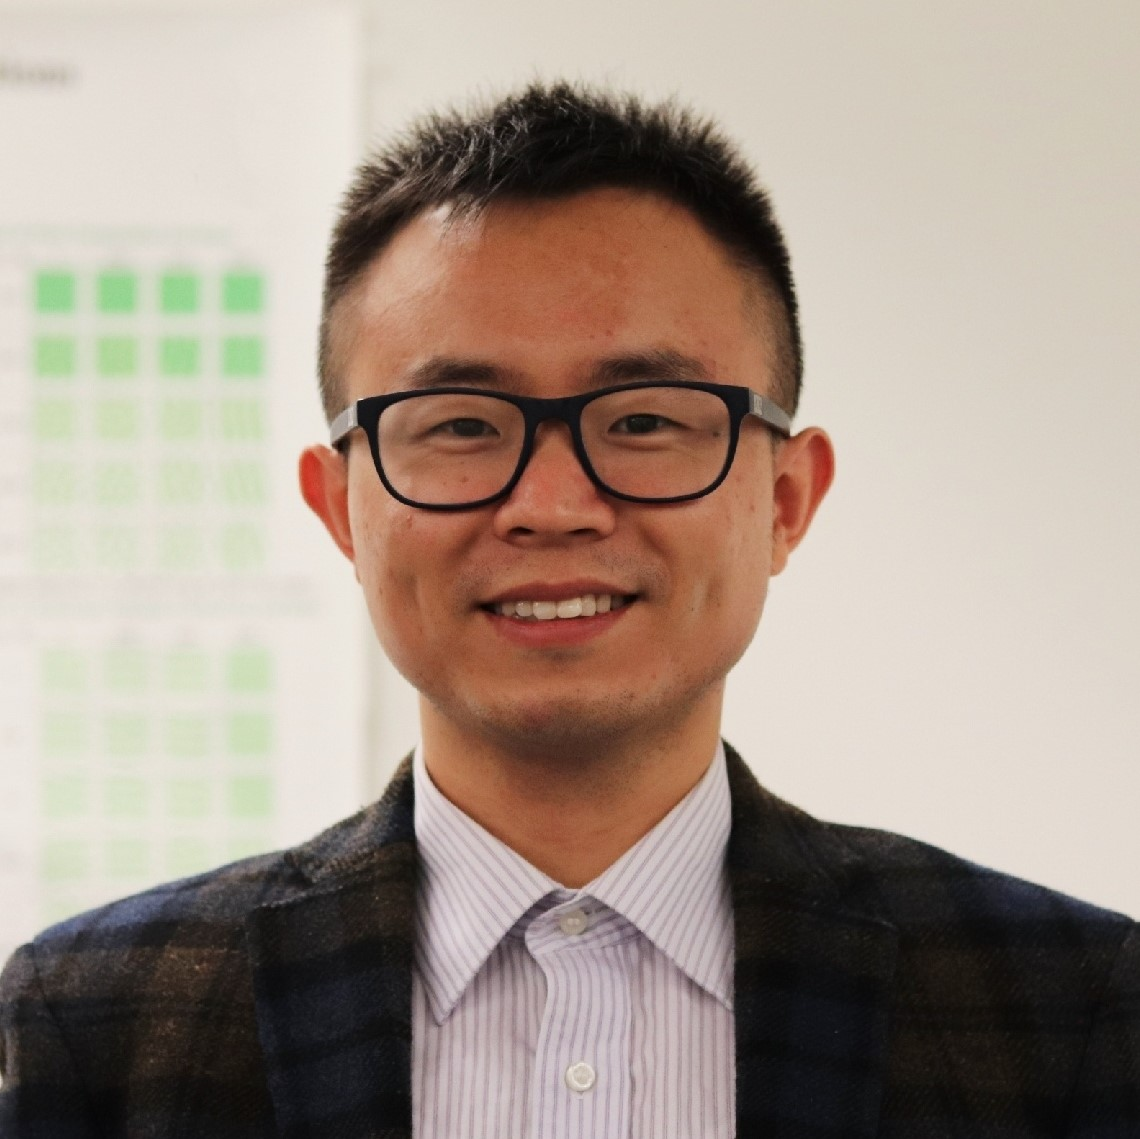
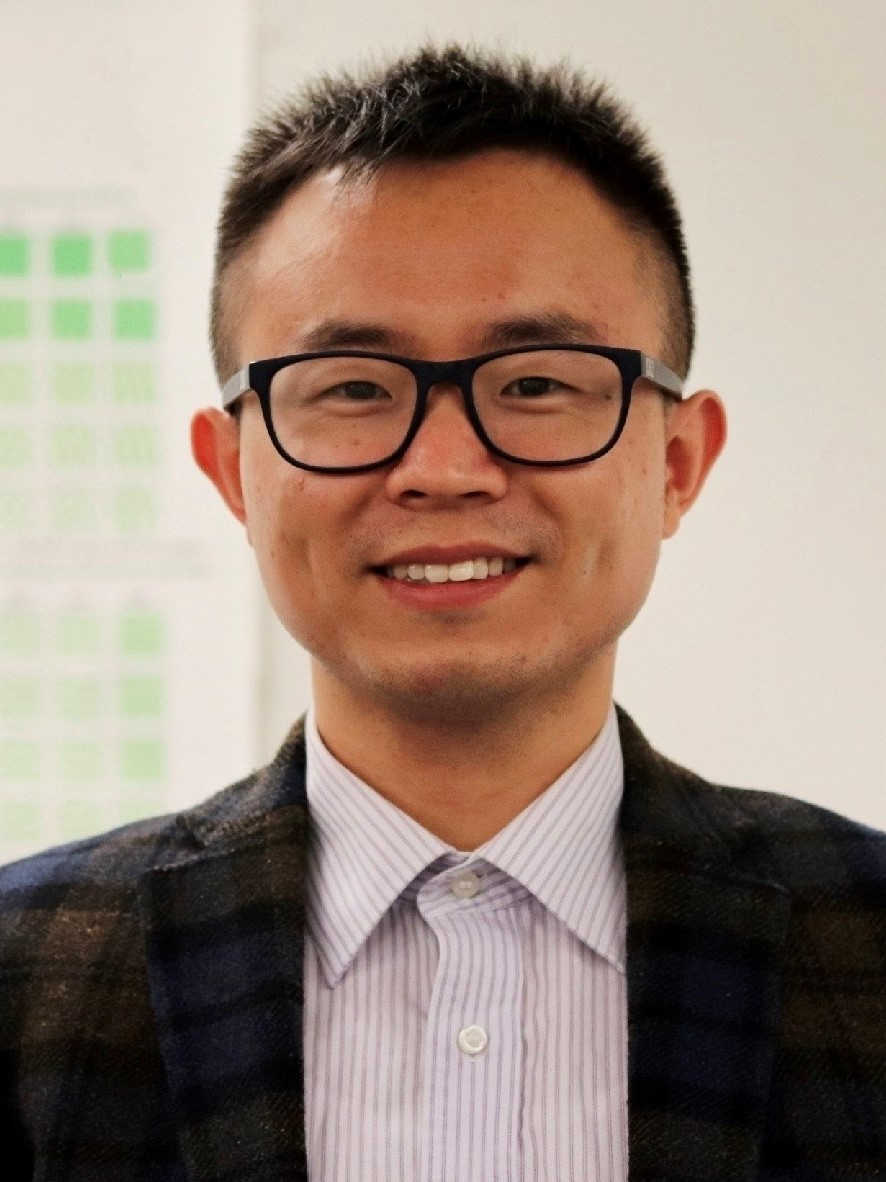
Updated web

diff --git a/index.html b/index.html
@@ -8,184 +8,35 @@
 <title>Le Liang</title>
 </head>
 <body>
-<div id="layout-content">
+<table summary="Table for page layout." id="tlayout">
+<tr valign="top">
+<td id="layout-menu">
+<div class="menu-item"><a href="index.html" class="current">Home</a></div>
+<div class="menu-item"><a href="publication.html">Publication</a></div>
+</td>
+<td id="layout-content">
 <div id="toptitle">
 <h1>Le Liang</h1>
 </div>
 <table class="imgtable"><tr><td>
-<img src="leliang.jpg" alt="leliang" width="216px" height="216px" />&nbsp;</td>
-<td align="left"><p>Le Liang is a Research Scientist with Intel Labs, Hillsboro, OR. His general research interests include wireless communications, signal processing, and machine learning.</p>
-<p>He received the B.E. degree in information engineering from Southeast University, Nanjing, China, in 2012, the M.A.Sc degree in electrical engineering from the University of Victoria, BC, Canada, in 2015, and the Ph.D. degree in electrical and computer engineering from the Georgia Institute of Technology, Atlanta, GA, in 2018.</p>
-<p>E-mail: lliang AT gatech DOT edu <br />
+<img src="leliang.jpg" alt="Le Liang" width="135px" height="180px" />&nbsp;</td>
+<td align="left"><p>Le Liang, Ph.D. <br />
+Research Scientist <br />
+<a href="https://www.intel.com/content/www/us/en/research/overview.html">Intel Labs</a>, Hillsboro, USA. <br /><br />
+E-mail: lliang AT gatech DOT edu <br />
 [<a href="https://scholar.google.ca/citations?user=Iv2E-SsAAAAJ&amp;hl=en">Google Scholar</a>] [<a href="https://github.com/le-liang">GitHub</a>] <br /></p>
 </td></tr></table>
-<h2>2020</h2>
-<ul>
-<li><p><a href="https://ieeexplore.ieee.org/document/9026965">Learn to compress CSI and allocate resources in vehicular networks</a> <a href="https://github.com/CooperLWang/Learn-CompressCSI-RA-V2X-Code"><b>[Source Code]</b></a>  <br />
-L. Wang, H. Ye, L. Liang, and G. Y. Li, <i>IEEE Transactions on Communications</i>, vol. 68, no. 6, pp. 3640-3653, Jun. 2020</p>
-</li>
-</ul>
-<ul>
-<li><p><a href="https://ieeexplore.ieee.org/document/8985539">Deep learning based end-to-end wireless communication systems with conditional GAN as unknown channel</a> <a href="https://github.com/haoyye/End2End_GAN"><b>[Source Code]</b></a>  <br />
-H. Ye, L. Liang, G. Y. Li, and B.-H. Juang, <i>IEEE Transactions on Wireless Communications</i>, vol. 19, no. 5, pp. 3133-3143, May 2020. </p>
-</li>
-</ul>
-<ul>
-<li><p><a href="https://ieeexplore.ieee.org/document/8943940">Deep-learning-based wireless resource allocation with application to vehicular networks</a> <br />
-L. Liang, H. Ye, G. Yu, and G. Y. Li, <i>Proceedings of the IEEE</i>, vol. 108, no. 2, pp. 341-356, Feb. 2020. </p>
-</li>
-</ul>
-<h2>2019</h2>
-<ul>
-<li><p><a href="https://ieeexplore.ieee.org/document/8792382">Spectrum sharing in vehicular networks based on multi-agent reinforcement learning</a> <a href="https://github.com/le-liang/MARLspectrumSharingV2X"><b>[Source Code]</b></a> <br />
-L. Liang, H. Ye, and G. Y. Li, <i>IEEE Journal on Selected Areas in Communications</i>, vol. 37, no. 10, pp. 2282-2292, Oct. 2019.</p>
-</li>
-</ul>
-<ul>
-<li><p><a href="https://ieeexplore.ieee.org/abstract/document/8676020">Resource allocation for V2X communications: A large deviation theory perspective</a> <br />
-C. Guo, L. Liang, and G. Y. Li, <i>IEEE Wireless Communications Letters</i>, vol. 8, no. 4, pp. 1108–-1111, Aug. 2019.</p>
-</li>
-</ul>
-<ul>
-<li><p><a href="https://ieeexplore.ieee.org/document/8731910/">Resource allocation for vehicular communications with low latency and high reliability</a> <br />
-C. Guo, L. Liang, and G. Y. Li, <i>IEEE Transactions on Wireless Communications</i>, vol. 18, no. 8, pp. 3887&ndash;3902, Aug. 2019.</p>
-</li>
-</ul>
-<ul>
-<li><p><a href="https://ieeexplore.ieee.org/document/8723178">Resource allocation for high-reliability low-Latency vehicular communications with packet retransmission</a> <br />
-C. Guo, L. Liang, and G. Y. Li, <i>IEEE Transactions on Vehicular Technology</i>, vol. 68, no. 7, pp. 6219&ndash;6230, Jul. 2019.</p>
-</li>
-</ul>
-<ul>
-<li><p><a href="https://ieeexplore.ieee.org/document/8638940">Resource allocation for low-latency vehicular communications: An effective capacity perspective</a> <br />
-C. Guo, L. Liang, and G. Y. Li, <i>IEEE Journal on Selected Areas in Communications</i>, vol. 37, no. 4, pp. 905–-917, Apr. 2019.</p>
-</li>
-</ul>
-<ul>
-<li><p><a href="https://ieeexplore.ieee.org/document/8472113">Toward intelligent vehicular networks: A machine learning framework</a> <br />
-L. Liang, H. Ye, and G. Y. Li, <i>IEEE Internet of Things Journal</i>, vol. 6, no. 1, pp. 124&ndash;135, Feb. 2019.</p>
-</li>
-</ul>
-<ul>
-<li><p><a href="https://ieeexplore.ieee.org/document/8354811/">Vehicular communications: A network layer perspective</a> <br />
-H. Peng, L. Liang, X. Shen, and G. Y. Li, <i>IEEE Transactions on Vehicular Technology</i>, vol. 68, no. 2, pp. 1064&ndash;1078, Feb. 2019.</p>
-</li>
-</ul>
-<p><br /></p>
-<ul>
-<li><p><a href="https://ieeexplore.ieee.org/abstract/document/8815483">Circular convolutional auto-encoder for channel coding</a> <br />
-H. Ye, L. Liang, and G. Y. Li, in <i>Proceedings of IEEE International Workshop on Signal Processing Advances in Wireless Communications (SPAWC)</i>, 2019, pp. 1&ndash;5.</p>
-</li>
-</ul>
-<ul>
-<li><p><a href="https://ieeexplore.ieee.org/abstract/document/8815439">Multi-agent reinforcement learning for spectrum sharing in vehicular networks</a> <br />
-L. Liang, H. Ye, and G. Y. Li, in <i>Proceedings of IEEE International Workshop on Signal Processing Advances in Wireless Communications (SPAWC)</i>, 2019, pp. 1&ndash;5.</p>
-</li>
-</ul>
-<h2>2018</h2>
-<ul>
-<li><p><a href="https://ieeexplore.ieee.org/document/8352650/">Framework of channel estimation for hybrid analog-and-digital processing enabled massive MIMO communications</a><br />
-L. Pan, L. Liang, W. Xu, and X. Dong, <i>IEEE Transactions on Communications</i>, vol. 66, no. 9, pp. 3902&ndash;3915, Sep. 2018.</p>
-</li>
-</ul>
-<ul>
-<li><p><a href="https://ieeexplore.ieee.org/document/8345717/">Graph-based resource sharing in vehicular communication</a> <a href="https://github.com/AlexVic/ResourceAllocationV2Xgraph"><b>[Source Code]</b></a><br />
-L. Liang, S. Xie, G. Y. Li, Z. Ding, and X. Yu, <i>IEEE Transactions on Wireless Communications</i>,  vol. 17, no. 7, pp. 4579–-4592, Jul. 2018.</p>
-</li>
-</ul>
-<ul>
-<li><p><a href="https://ieeexplore.ieee.org/document/8345672/">Machine learning for vehicular networks: Recent advances and application examples</a> <br />
-H. Ye, L. Liang, G. Y. Li, J. Kim, L. Lu, and M. Wu, <i>IEEE Vehicular Technology Magazine</i>, vol. 13, no. 2, pp. 94&ndash;101, Jun. 2018.</p>
-</li>
-</ul>
-<p><br /></p>
-<ul>
-<li><p><a href="https://ieeexplore.ieee.org/document/8647866">Resource allocation for low-latency vehicular communications with packet retransmissions</a><br />
-C. Guo, L. Liang, and G. Y. Li, in <i>Proceedings of IEEE Global Communications Conference (GLOBECOM)</i>, 2018, pp. 1–-6.</p>
-</li>
-</ul>
-<ul>
-<li><p><a href="https://ieeexplore.ieee.org/document/8422585/">Graph-based radio resource management for vehicular networks</a> <br />
-L. Liang, S. Xie, G. Y. Li, Z. Ding, and X. Yu, in <i>Proceedings of IEEE International Conference on Communications (ICC)</i>, 2018, pp. 1&ndash;6. </p>
-</li>
-</ul>
-<h2>2017</h2>
-<ul>
-<li><p><a href="http://ieeexplore.ieee.org/document/8031287/">Vehicular communications: A physical layer perspective</a> <br />
-L. Liang, H. Peng, G. Y. Li, and X. Shen, <i>IEEE Transactions on Vehicular Technology</i>, vol. 66, no. 12, pp. 10647&ndash;10659, Dec. 2017.</p>
-</li>
-</ul>
-<ul>
-<li><p><a href="http://ieeexplore.ieee.org/document/7922547/">Spectrum and power allocation for vehicular communications with delayed CSI feedback</a> <a href="https://github.com/AlexVic/ResourceAllocationDelayedCSI"><b>[Source Code]</b></a><br />
-L. Liang, J. JoonBeom, S. C. Jha, K. Sivanesan, and G. Y. Li, <i>IEEE Wireless Communications Letters</i>, vol. 6, no. 4, pp. 458-–461, Aug. 2017.</p>
-</li>
-</ul>
-<ul>
-<li><p><a href="http://ieeexplore.ieee.org/document/7913583/">Resource allocation for D2D-enabled vehicular communications</a> <a href="https://github.com/AlexVic/ResourceAllocationV2X"><b>[Source Code]</b></a><br />
-L. Liang, G. Y. Li, W. Xu, <i>IEEE Transactions on Communications</i>, vol. 65, no. 7, pp. 3186–-3197, Jul. 2017.</p>
-</li>
-</ul>
-<p><br /></p>
-<ul>
-<li><p><a href="http://ieeexplore.ieee.org/abstract/document/7952854/">Meeting different QoS requirements of vehicular networks: A D2D-based approach</a> <br />
-L. Liang, G. Y. Li, W. Xu, in <i>Proceedings of IEEE International Conference on Acoustics, Speech and Signal Processing (ICASSP)</i>, 2017, pp. 3734&ndash;3738. </p>
-</li>
-</ul>
-<h2>2014 and earlier</h2>
-<ul>
-<li><p><a href="http://ieeexplore.ieee.org/abstract/document/6928432/">Low-complexity hybrid precoding in massive multiuser MIMO systems</a> <a href="https://github.com/AlexVic/HybridPrecodingMassiveMIMO"><b>[Source Code]</b></a> <br />
-L. Liang, W. Xu, and X. Dong, <i>IEEE Wireless Communications Letters</i>, vol. 3, no. 6, pp. 653&ndash;656, Dec. 2014. </p>
-</li>
-</ul>
-<ul>
-<li><p><a href="https://link.springer.com/article/10.1007/s11277-013-1456-6">On coordinated multi-point transmission with partial channel state information via delayed feedback</a> <br />
-W. Xu and L. Liang, <i>Wireless Personal Communications</i>, vol. 75, no. 4, pp. 2103&ndash;2119, Apr. 2014. </p>
-</li>
-</ul>
-<ul>
-<li><p><a href="http://ieeexplore.ieee.org/abstract/document/6565336/">Limited feedback-based multi-antenna relay broadcast channels with block diagonalization</a> <br />
-L. Liang, W. Xu, and X. Dong, <i>IEEE Transactions on Wireless Communications</i>, vol. 12, no. 8, pp. 4092&ndash;4101, Aug. 2013. </p>
-</li>
-</ul>
-<p><br /></p>
-<ul>
-<li><p><a href="http://ieeexplore.ieee.org/abstract/document/7008332/">How to approach zero-forcing under RF chain limitations in large mmWave multiuser systems?</a> <br />
-L. Liang, Y. Dai, W. Xu, and X. Dong, in <i>Proceedings of IEEE International Conference on Communications in China (ICCC)</i>, 2014, pp. 518&ndash;522. (<b>Best Paper Award</b>)</p>
-</li>
-</ul>
-<ul>
-<li><p><a href="http://ieeexplore.ieee.org/abstract/document/6503793/">Performance enhanced transmission in device-to-device communications: Beamforming or interference cancellation?</a><br />
-W. Xu, L. Liang, S. Jin, J. Li, and M. Lei, in <i>Proceedings of IEEE Global Communications Conference (GLOBECOM)</i>, 2012, pp. 4296&ndash;4301.</p>
-</li>
-</ul>
-<ul>
-<li><p><a href="http://ieeexplore.ieee.org/abstract/document/6362747/">Adaptive coordinated multi-point transmission based on delayed limited feedback</a> <br />
-L. Liang, W. Xu, and H. Zhang, in <i>Proceedings of IEEE 23rd International Symposium on Personal Indoor and Mobile Radio Communications (PIMRC)</i>, 2012, pp. 2335&ndash;2340.</p>
-</li>
-</ul>
-<ul>
-<li><p><a href="http://ieeexplore.ieee.org/abstract/document/6212949/">Approaching downlink capacity of multiplexing relay channels with imperfect channel information</a> <br />
-W. Xu and L. Liang, in <i>Proceedings of 4th International High Speed Intelligent Communication Forum (HSIC)</i>, 2012, pp. 136&ndash;138. (invited)</p>
-</li>
-</ul>
-<h2>Theses</h2>
-<ul>
-<li><p><a href="https://smartech.gatech.edu/handle/1853/60780">Resource allocation for vehicular communications</a> (Ph.D. Dissertation, Georgia Institute of Technology, 2018)</p>
-</li>
-</ul>
-<ul>
-<li><p><a href="https://dspace.library.uvic.ca/handle/1828/6910">Practical precoding design for modern multiuser MIMO communications</a> (M.A.Sc Thesis, University of Victoria, 2015)</p>
-</li>
-</ul>
-<ul>
-<li><p><a href="thesis_seu.pdf">Cooperative communications in MIMO systems (in Chinese)</a> (B.E. Thesis, Southeast University, 2012)</p>
-</li>
-</ul>
+<h2>Bio</h2>
+<p>Le Liang received the B.E. degree in information engineering from Southeast University, Nanjing, China, in 2012, the M.A.Sc degree in electrical engineering from the University of Victoria, BC, Canada, in 2015, and the Ph.D. degree in electrical and computer engineering from the Georgia Institute of Technology, Atlanta, GA, USA in 2018. He is a Research Scientist with Intel Labs, Hillsboro, OR, USA. His general research interests include wireless communications, signal processing, and machine learning.</p>
+<p>Dr. Liang serves as an Editor for the IEEE Communications Letters and as an Associate Editor for the IEEE Journal on Selected Areas in Communications Series on Machine Learning in Communications and Networks. He was the Industry Sponsorship Chair of the IEEE International Workshop on Signal Processing in Wireless Communications (SPAWC) in 2020 and the Chair of the IEEE SmartGridComm Workshop on Convergence of Vehicular Networks and Smart Grids in 2019. 
+He received the Best Paper Award at the IEEE/CIC International Conference on Communication in China (ICCC) in 2014 and was named an Exemplary Reviewer for the IEEE Wireless Communications Letters in 2018.</p>
 <div id="footer">
 <div id="footer-text">
-Page generated 2020-07-03 11:18:26 PDT, by <a href="http://jemdoc.jaboc.net/">jemdoc</a>.
+Page generated 2020-12-05 12:46:09 Pacific Standard Time, by <a href="http://jemdoc.jaboc.net/">jemdoc</a>.
 </div>
 </div>
-</div>
+</td>
+</tr>
+</table>
 </body>
 </html>

diff --git a/publication.html b/publication.html
@@ -1,0 +1,192 @@
+<!DOCTYPE html PUBLIC "-//W3C//DTD XHTML 1.1//EN"
+  "http://www.w3.org/TR/xhtml11/DTD/xhtml11.dtd">
+<html xmlns="http://www.w3.org/1999/xhtml" xml:lang="en">
+<head>
+<meta name="generator" content="jemdoc, see http://jemdoc.jaboc.net/" />
+<meta http-equiv="Content-Type" content="text/html;charset=utf-8" />
+<link rel="stylesheet" href="jemdoc.css" type="text/css" />
+<title>Publications</title>
+</head>
+<body>
+<table summary="Table for page layout." id="tlayout">
+<tr valign="top">
+<td id="layout-menu">
+<div class="menu-item"><a href="index.html">Home</a></div>
+<div class="menu-item"><a href="publication.html" class="current">Publication</a></div>
+</td>
+<td id="layout-content">
+<div id="toptitle">
+<h1>Publications</h1>
+</div>
+<h2>2020</h2>
+<ul>
+<li><p><a href="https://ieeexplore.ieee.org/document/9026965">Learn to compress CSI and allocate resources in vehicular networks</a> <a href="https://github.com/CooperLWang/Learn-CompressCSI-RA-V2X-Code"><b>[Source Code]</b></a>  <br />
+L. Wang, H. Ye, L. Liang, and G. Y. Li, <i>IEEE Transactions on Communications</i>, vol. 68, no. 6, pp. 3640-3653, Jun. 2020</p>
+</li>
+</ul>
+<ul>
+<li><p><a href="https://ieeexplore.ieee.org/document/8985539">Deep learning based end-to-end wireless communication systems with conditional GAN as unknown channel</a> <a href="https://github.com/haoyye/End2End_GAN"><b>[Source Code]</b></a>  <br />
+H. Ye, L. Liang, G. Y. Li, and B.-H. Juang, <i>IEEE Transactions on Wireless Communications</i>, vol. 19, no. 5, pp. 3133-3143, May 2020. </p>
+</li>
+</ul>
+<ul>
+<li><p><a href="https://ieeexplore.ieee.org/document/8943940">Deep-learning-based wireless resource allocation with application to vehicular networks</a> <br />
+L. Liang, H. Ye, G. Yu, and G. Y. Li, <i>Proceedings of the IEEE</i>, vol. 108, no. 2, pp. 341-356, Feb. 2020. </p>
+</li>
+</ul>
+<h2>2019</h2>
+<ul>
+<li><p><a href="https://ieeexplore.ieee.org/document/8792382">Spectrum sharing in vehicular networks based on multi-agent reinforcement learning</a> <a href="https://github.com/le-liang/MARLspectrumSharingV2X"><b>[Source Code]</b></a> <br />
+L. Liang, H. Ye, and G. Y. Li, <i>IEEE Journal on Selected Areas in Communications</i>, vol. 37, no. 10, pp. 2282-2292, Oct. 2019.</p>
+</li>
+</ul>
+<ul>
+<li><p><a href="https://ieeexplore.ieee.org/abstract/document/8676020">Resource allocation for V2X communications: A large deviation theory perspective</a> <br />
+C. Guo, L. Liang, and G. Y. Li, <i>IEEE Wireless Communications Letters</i>, vol. 8, no. 4, pp. 1108–-1111, Aug. 2019.</p>
+</li>
+</ul>
+<ul>
+<li><p><a href="https://ieeexplore.ieee.org/document/8731910/">Resource allocation for vehicular communications with low latency and high reliability</a> <br />
+C. Guo, L. Liang, and G. Y. Li, <i>IEEE Transactions on Wireless Communications</i>, vol. 18, no. 8, pp. 3887&ndash;3902, Aug. 2019.</p>
+</li>
+</ul>
+<ul>
+<li><p><a href="https://ieeexplore.ieee.org/document/8723178">Resource allocation for high-reliability low-Latency vehicular communications with packet retransmission</a> <br />
+C. Guo, L. Liang, and G. Y. Li, <i>IEEE Transactions on Vehicular Technology</i>, vol. 68, no. 7, pp. 6219&ndash;6230, Jul. 2019.</p>
+</li>
+</ul>
+<ul>
+<li><p><a href="https://ieeexplore.ieee.org/document/8638940">Resource allocation for low-latency vehicular communications: An effective capacity perspective</a> <br />
+C. Guo, L. Liang, and G. Y. Li, <i>IEEE Journal on Selected Areas in Communications</i>, vol. 37, no. 4, pp. 905–-917, Apr. 2019.</p>
+</li>
+</ul>
+<ul>
+<li><p><a href="https://ieeexplore.ieee.org/document/8472113">Toward intelligent vehicular networks: A machine learning framework</a> <br />
+L. Liang, H. Ye, and G. Y. Li, <i>IEEE Internet of Things Journal</i>, vol. 6, no. 1, pp. 124&ndash;135, Feb. 2019.</p>
+</li>
+</ul>
+<ul>
+<li><p><a href="https://ieeexplore.ieee.org/document/8354811/">Vehicular communications: A network layer perspective</a> <br />
+H. Peng, L. Liang, X. Shen, and G. Y. Li, <i>IEEE Transactions on Vehicular Technology</i>, vol. 68, no. 2, pp. 1064&ndash;1078, Feb. 2019.</p>
+</li>
+</ul>
+<p><br /></p>
+<ul>
+<li><p><a href="https://ieeexplore.ieee.org/abstract/document/8815483">Circular convolutional auto-encoder for channel coding</a> <br />
+H. Ye, L. Liang, and G. Y. Li, in <i>Proceedings of IEEE International Workshop on Signal Processing Advances in Wireless Communications (SPAWC)</i>, 2019, pp. 1&ndash;5.</p>
+</li>
+</ul>
+<ul>
+<li><p><a href="https://ieeexplore.ieee.org/abstract/document/8815439">Multi-agent reinforcement learning for spectrum sharing in vehicular networks</a> <br />
+L. Liang, H. Ye, and G. Y. Li, in <i>Proceedings of IEEE International Workshop on Signal Processing Advances in Wireless Communications (SPAWC)</i>, 2019, pp. 1&ndash;5.</p>
+</li>
+</ul>
+<h2>2018</h2>
+<ul>
+<li><p><a href="https://ieeexplore.ieee.org/document/8352650/">Framework of channel estimation for hybrid analog-and-digital processing enabled massive MIMO communications</a><br />
+L. Pan, L. Liang, W. Xu, and X. Dong, <i>IEEE Transactions on Communications</i>, vol. 66, no. 9, pp. 3902&ndash;3915, Sep. 2018.</p>
+</li>
+</ul>
+<ul>
+<li><p><a href="https://ieeexplore.ieee.org/document/8345717/">Graph-based resource sharing in vehicular communication</a> <a href="https://github.com/AlexVic/ResourceAllocationV2Xgraph"><b>[Source Code]</b></a><br />
+L. Liang, S. Xie, G. Y. Li, Z. Ding, and X. Yu, <i>IEEE Transactions on Wireless Communications</i>,  vol. 17, no. 7, pp. 4579–-4592, Jul. 2018.</p>
+</li>
+</ul>
+<ul>
+<li><p><a href="https://ieeexplore.ieee.org/document/8345672/">Machine learning for vehicular networks: Recent advances and application examples</a> <br />
+H. Ye, L. Liang, G. Y. Li, J. Kim, L. Lu, and M. Wu, <i>IEEE Vehicular Technology Magazine</i>, vol. 13, no. 2, pp. 94&ndash;101, Jun. 2018.</p>
+</li>
+</ul>
+<p><br /></p>
+<ul>
+<li><p><a href="https://ieeexplore.ieee.org/document/8647866">Resource allocation for low-latency vehicular communications with packet retransmissions</a><br />
+C. Guo, L. Liang, and G. Y. Li, in <i>Proceedings of IEEE Global Communications Conference (GLOBECOM)</i>, 2018, pp. 1–-6.</p>
+</li>
+</ul>
+<ul>
+<li><p><a href="https://ieeexplore.ieee.org/document/8422585/">Graph-based radio resource management for vehicular networks</a> <br />
+L. Liang, S. Xie, G. Y. Li, Z. Ding, and X. Yu, in <i>Proceedings of IEEE International Conference on Communications (ICC)</i>, 2018, pp. 1&ndash;6. </p>
+</li>
+</ul>
+<h2>2017</h2>
+<ul>
+<li><p><a href="http://ieeexplore.ieee.org/document/8031287/">Vehicular communications: A physical layer perspective</a> <br />
+L. Liang, H. Peng, G. Y. Li, and X. Shen, <i>IEEE Transactions on Vehicular Technology</i>, vol. 66, no. 12, pp. 10647&ndash;10659, Dec. 2017.</p>
+</li>
+</ul>
+<ul>
+<li><p><a href="http://ieeexplore.ieee.org/document/7922547/">Spectrum and power allocation for vehicular communications with delayed CSI feedback</a> <a href="https://github.com/AlexVic/ResourceAllocationDelayedCSI"><b>[Source Code]</b></a><br />
+L. Liang, J. JoonBeom, S. C. Jha, K. Sivanesan, and G. Y. Li, <i>IEEE Wireless Communications Letters</i>, vol. 6, no. 4, pp. 458-–461, Aug. 2017.</p>
+</li>
+</ul>
+<ul>
+<li><p><a href="http://ieeexplore.ieee.org/document/7913583/">Resource allocation for D2D-enabled vehicular communications</a> <a href="https://github.com/AlexVic/ResourceAllocationV2X"><b>[Source Code]</b></a><br />
+L. Liang, G. Y. Li, W. Xu, <i>IEEE Transactions on Communications</i>, vol. 65, no. 7, pp. 3186–-3197, Jul. 2017.</p>
+</li>
+</ul>
+<p><br /></p>
+<ul>
+<li><p><a href="http://ieeexplore.ieee.org/abstract/document/7952854/">Meeting different QoS requirements of vehicular networks: A D2D-based approach</a> <br />
+L. Liang, G. Y. Li, W. Xu, in <i>Proceedings of IEEE International Conference on Acoustics, Speech and Signal Processing (ICASSP)</i>, 2017, pp. 3734&ndash;3738. </p>
+</li>
+</ul>
+<h2>2014 and earlier</h2>
+<ul>
+<li><p><a href="http://ieeexplore.ieee.org/abstract/document/6928432/">Low-complexity hybrid precoding in massive multiuser MIMO systems</a> <a href="https://github.com/AlexVic/HybridPrecodingMassiveMIMO"><b>[Source Code]</b></a> <br />
+L. Liang, W. Xu, and X. Dong, <i>IEEE Wireless Communications Letters</i>, vol. 3, no. 6, pp. 653&ndash;656, Dec. 2014. </p>
+</li>
+</ul>
+<ul>
+<li><p><a href="https://link.springer.com/article/10.1007/s11277-013-1456-6">On coordinated multi-point transmission with partial channel state information via delayed feedback</a> <br />
+W. Xu and L. Liang, <i>Wireless Personal Communications</i>, vol. 75, no. 4, pp. 2103&ndash;2119, Apr. 2014. </p>
+</li>
+</ul>
+<ul>
+<li><p><a href="http://ieeexplore.ieee.org/abstract/document/6565336/">Limited feedback-based multi-antenna relay broadcast channels with block diagonalization</a> <br />
+L. Liang, W. Xu, and X. Dong, <i>IEEE Transactions on Wireless Communications</i>, vol. 12, no. 8, pp. 4092&ndash;4101, Aug. 2013. </p>
+</li>
+</ul>
+<p><br /></p>
+<ul>
+<li><p><a href="http://ieeexplore.ieee.org/abstract/document/7008332/">How to approach zero-forcing under RF chain limitations in large mmWave multiuser systems?</a> <br />
+L. Liang, Y. Dai, W. Xu, and X. Dong, in <i>Proceedings of IEEE International Conference on Communications in China (ICCC)</i>, 2014, pp. 518&ndash;522. (<b>Best Paper Award</b>)</p>
+</li>
+</ul>
+<ul>
+<li><p><a href="http://ieeexplore.ieee.org/abstract/document/6503793/">Performance enhanced transmission in device-to-device communications: Beamforming or interference cancellation?</a><br />
+W. Xu, L. Liang, S. Jin, J. Li, and M. Lei, in <i>Proceedings of IEEE Global Communications Conference (GLOBECOM)</i>, 2012, pp. 4296&ndash;4301.</p>
+</li>
+</ul>
+<ul>
+<li><p><a href="http://ieeexplore.ieee.org/abstract/document/6362747/">Adaptive coordinated multi-point transmission based on delayed limited feedback</a> <br />
+L. Liang, W. Xu, and H. Zhang, in <i>Proceedings of IEEE 23rd International Symposium on Personal Indoor and Mobile Radio Communications (PIMRC)</i>, 2012, pp. 2335&ndash;2340.</p>
+</li>
+</ul>
+<ul>
+<li><p><a href="http://ieeexplore.ieee.org/abstract/document/6212949/">Approaching downlink capacity of multiplexing relay channels with imperfect channel information</a> <br />
+W. Xu and L. Liang, in <i>Proceedings of 4th International High Speed Intelligent Communication Forum (HSIC)</i>, 2012, pp. 136&ndash;138. (invited)</p>
+</li>
+</ul>
+<h2>Theses</h2>
+<ul>
+<li><p><a href="https://smartech.gatech.edu/handle/1853/60780">Resource allocation for vehicular communications</a> (Ph.D. Dissertation, Georgia Institute of Technology, 2018)</p>
+</li>
+</ul>
+<ul>
+<li><p><a href="https://dspace.library.uvic.ca/handle/1828/6910">Practical precoding design for modern multiuser MIMO communications</a> (M.A.Sc Thesis, University of Victoria, 2015)</p>
+</li>
+</ul>
+<ul>
+<li><p><a href="thesis_seu.pdf">Cooperative communications in MIMO systems (in Chinese)</a> (B.E. Thesis, Southeast University, 2012)</p>
+</li>
+</ul>
+<div id="footer">
+<div id="footer-text">
+Page generated 2020-12-05 12:25:32 Pacific Standard Time, by <a href="http://jemdoc.jaboc.net/">jemdoc</a>.
+</div>
+</div>
+</td>
+</tr>
+</table>
+</body>
+</html>
